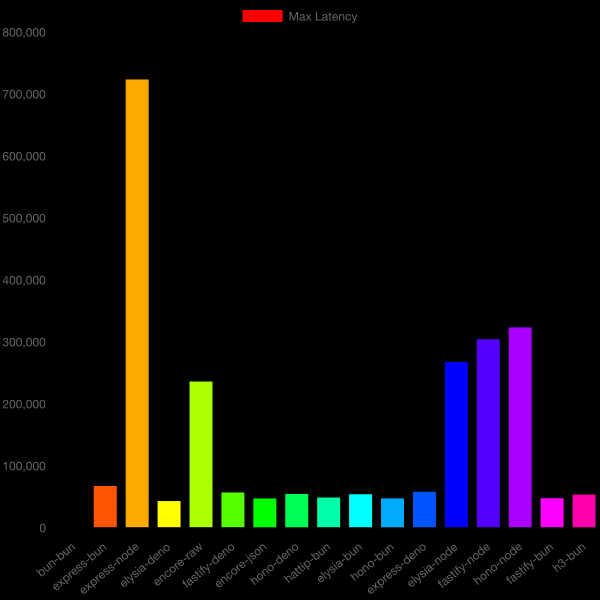
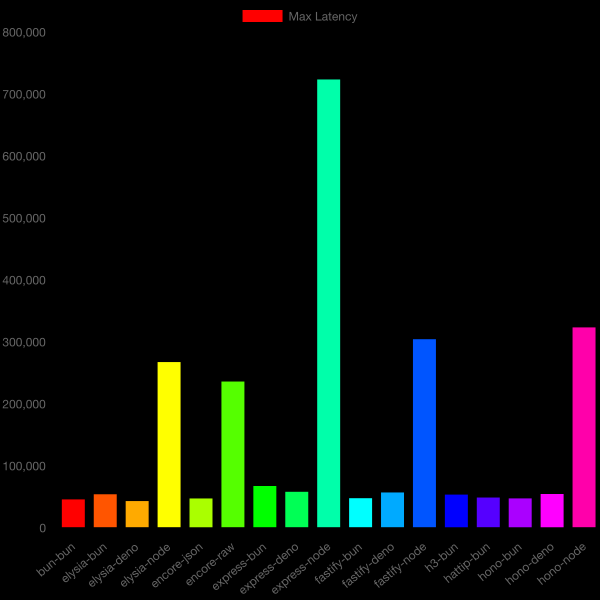
get bun bun to work

diff --git a/bench/chart.js b/bench/chart.js
@@ -4,7 +4,7 @@ import {
   writeFile,
   stat,
   mkdir,
-  rmdir,
+  rm,
 } from "node:fs/promises";
 import { parse } from "node:path";
 import { Chart } from "chart.js/auto";
@@ -14,7 +14,7 @@ const dirs = ["charts", "tables"];
 for (const dir of dirs) {
   const dirExists = await stat(`./results/${dir}`).catch(() => false);
   if (dirExists) {
-    await rmdir(`./results/${dir}`, { recursive: true });
+    await rm(`./results/${dir}`, { recursive: true });
   }
 }
 

diff --git a/runtimes/bun/bun.js b/runtimes/bun/bun.js
@@ -74,7 +74,6 @@ fastifyApp.listen({
 // Bun Bun
 Bun.serve({
   port: process.env.BUN_PORT,
-  hostname: "0.0.0.0",
   routes: {
     "/": {
       GET: async () => new Response(text, { status: 200 }),
